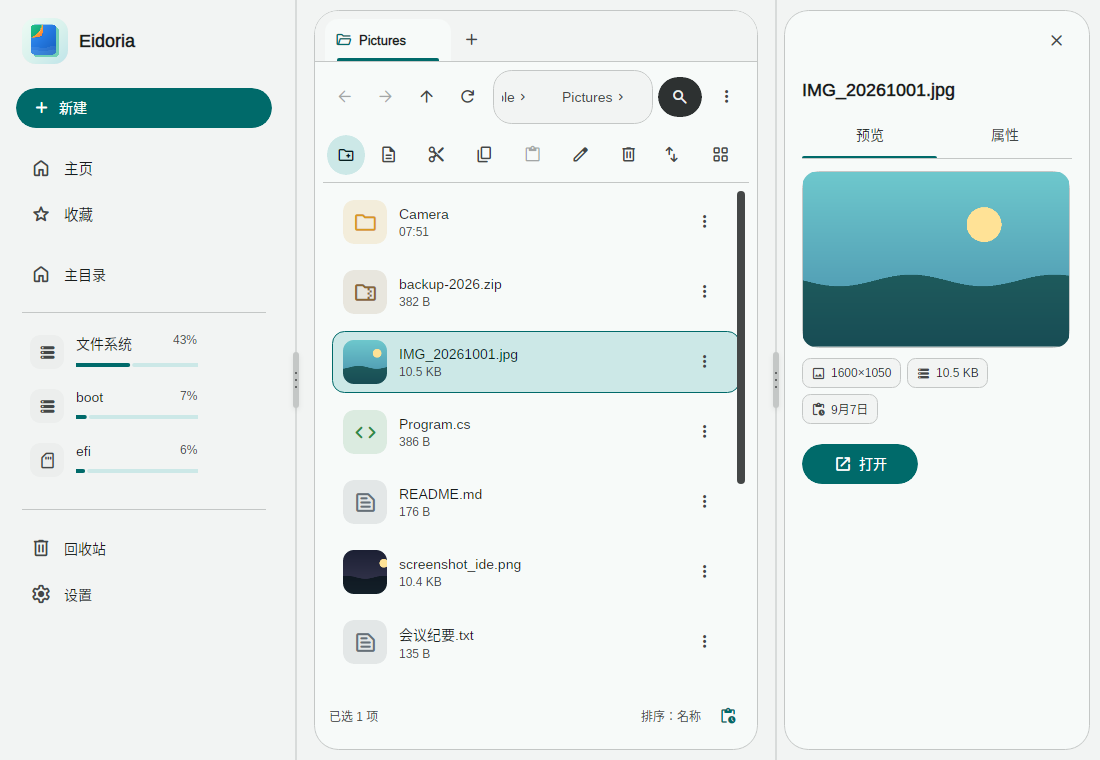
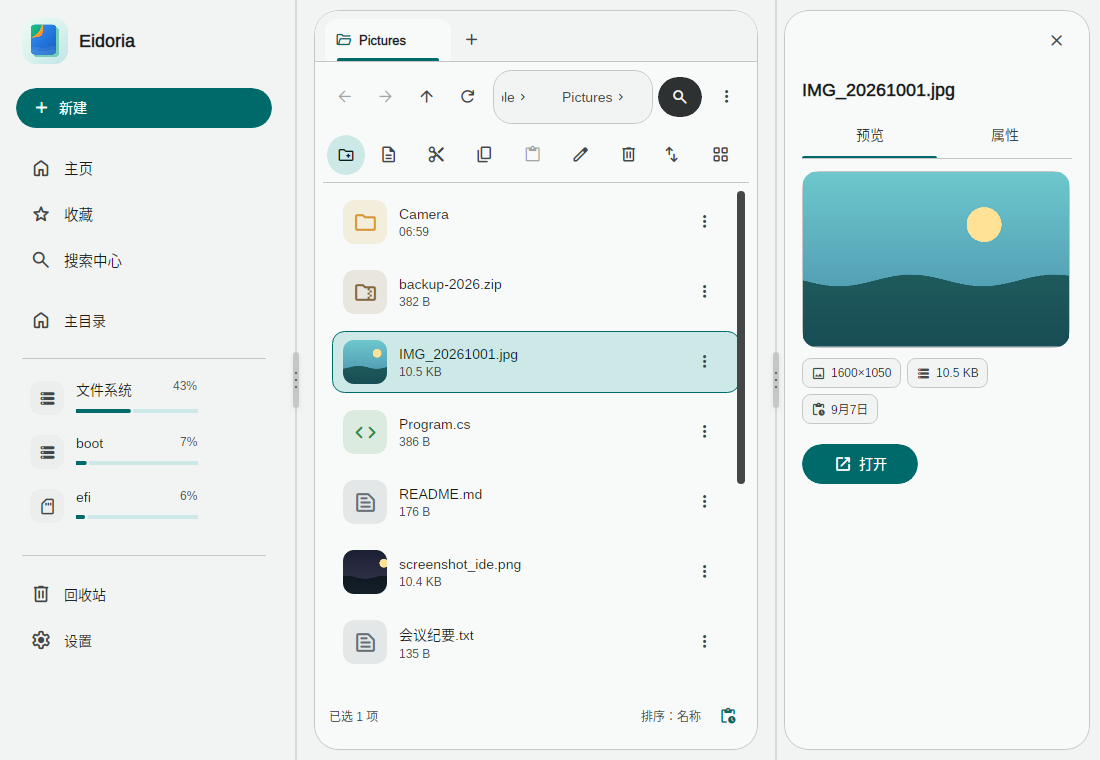
docs: archive v0.13 search center

Changed region(s): [[0.0309, 0.3329, 0.1855, 0.8474]]

diff --git a/src/MdExplorer.Infrastructure/SearchIndex.cs b/src/MdExplorer.Infrastructure/SearchIndex.cs
@@ -105,12 +105,14 @@ public sealed class FileNameIndexService : IFileNameIndexService
         if (!_settingsStore.Settings.UseSearchIndex || TryNormalizeLocalPath(rootPath) is not { } normalized)
             return false;
 
-        var snapshot = await EnsureLoadedAsync(cancellationToken).ConfigureAwait(false);
-        UpdateWatchers(snapshot);
-        if (snapshot is null || _invalidated || !RootsEqual(snapshot.Roots, ConfiguredRoots()))
+        // 先用轻量根配置判覆盖，未命中时不加载整份快照，浏览器在普通目录搜索不付索引读取成本。
+        var roots = ConfiguredRoots();
+        if (!roots.Any(root => IsSameOrUnder(normalized, root)))
             return false;
 
-        return ConfiguredRoots().Any(root => IsSameOrUnder(normalized, root));
+        var snapshot = await EnsureLoadedAsync(cancellationToken).ConfigureAwait(false);
+        UpdateWatchers(snapshot);
+        return snapshot is not null && !_invalidated && RootsEqual(snapshot.Roots, roots);
     }
 
     public async IAsyncEnumerable<FileItem> SearchAsync(

diff --git a/README.md b/README.md
@@ -4,15 +4,17 @@
 
 基于 **Avalonia 12 + .NET 10** 的跨平台（Windows / Linux / Android）**本地**文件资源管理器，采用 **Material Design 3**（`Md3.Avalonia`）设计语言，按窗口尺寸类做真响应式（Adaptive）布局：底部导航栏（Compact）→ 导轨（Medium）→ 永久抽屉 + 预览侧栏（Expanded+）。核心层平台无关，平台能力经接口适配；许可证 Apache-2.0（见 `LICENSE`）。
 
-> **状态：v0.12**——浏览/搜索/预览（图片、文本、**Markdown 渲染、代码高亮、PDF 分页**、ZIP 条目）/复制移动删除（含回收站语义）/ZIP/收藏/设置已可用；v0.2 新增文件夹外部变更自动刷新、文件夹大小、校验和与批量重命名；**v0.3 新增 Android SAF 授权文件夹浏览**；**v0.4 新增详细信息视图**；**v0.5 新增拖放与系统剪贴板互通**；**v0.6 新增浏览器标签页与 PDF 分页预览，并将产品品牌定为 Eidoria（万象屿）**（名称与图标见 `docs/BRAND.md`；仓库、命名空间、Android ApplicationId 与数据目录仍保留内部代号 MdExplorer 以兼容既有数据）；**v0.7 新增串行任务中心、可编辑地址栏、最近访问与标签页恢复**；**v0.8 按概念稿重塑视觉层级：柔和底板承载白色工作区与预览浮动卡，标签页改为与工作区同面相连的浏览器式页签，路径胶囊、类型色图标井、圆角文件卡与精确 `MdList` 选中态统一收敛，Compact 将标签轨与面包屑折叠为当前目录**；**v0.9 换装极简新 Logo（深湖拱门·金日屿浪），三栏加入自研 Material 分隔条（拖动/键盘调整并持久化宽度，原型将回流 Md3.Avalonia），目录切换/页面与侧栏补齐入场与点击动效，插件脚本完成 Lua 优先评估（MoonSharp spike、Python 走进程外）**；**v0.10 新增按文件夹记忆视图与排序（可关、可清除、最多 200 个）和应用内“减少动态效果”，Material 分隔条补齐双击/Home 复位、16px 热区与 `:reduce-motion` 状态，设置页版本改为动态读取**；**v0.11 将整行搜索改成迷你搜索岛 + 悬浮搜索面板（Ctrl+F/K、回车递归、系统返回先收面板），预览拆为“预览 / 属性”双页签且 Compact/Medium 改用 Md3.Extra `MdFloatingWindow` 悬浮预览，全仓显式溢出区统一 `MdScrollViewer`，路径胶囊点空白编辑、点分段跳转，溢出菜单改为桌面三列分组限高，并以概念稿的蓝色折页重绘图标**；**v0.12 对照 `ai-v3` 概念图收敛真实界面：文件行/卡只保留一个紧凑元数据，桌面工具栏、搜索岛、状态区、任务与回收站优先图标+数值，Compact 顶栏新增带计数折叠页签入口，预览改为贴顶舞台与图标事实条，卡片/选中态/Rail 指示器统一到 MD3 tonal 表面与形状阶梯**。标签页各自保存路径、前进/后退栈、过滤词与选集，并可跨启动恢复；PDF 预览采用 MIT 许可的 PDFtoImage/PDFium 按页光栅化（Android 内置预览需 API 31+）。音视频播放为后续里程碑；**插件系统与本地 AI 两条轨道已完成评估、仍排在核心完善之后**。
+> **状态：v0.13**——浏览/搜索/预览（图片、文本、**Markdown 渲染、代码高亮、PDF 分页**、ZIP 条目）/复制移动删除（含回收站语义）/ZIP/收藏/设置已可用；v0.2 新增文件夹外部变更自动刷新、文件夹大小、校验和与批量重命名；**v0.3 新增 Android SAF 授权文件夹浏览**；**v0.4 新增详细信息视图**；**v0.5 新增拖放与系统剪贴板互通**；**v0.6 新增浏览器标签页与 PDF 分页预览，并将产品品牌定为 Eidoria（万象屿）**（名称与图标见 `docs/BRAND.md`；仓库、命名空间、Android ApplicationId 与数据目录仍保留内部代号 MdExplorer 以兼容既有数据）；**v0.7 新增串行任务中心、可编辑地址栏、最近访问与标签页恢复**；**v0.8 按概念稿重塑视觉层级：柔和底板承载白色工作区与预览浮动卡，标签页改为与工作区同面相连的浏览器式页签，路径胶囊、类型色图标井、圆角文件卡与精确 `MdList` 选中态统一收敛，Compact 将标签轨与面包屑折叠为当前目录**；**v0.9 换装极简新 Logo（深湖拱门·金日屿浪），三栏加入自研 Material 分隔条（拖动/键盘调整并持久化宽度，原型将回流 Md3.Avalonia），目录切换/页面与侧栏补齐入场与点击动效，插件脚本完成 Lua 优先评估（MoonSharp spike、Python 走进程外）**；**v0.10 新增按文件夹记忆视图与排序（可关、可清除、最多 200 个）和应用内“减少动态效果”，Material 分隔条补齐双击/Home 复位、16px 热区与 `:reduce-motion` 状态，设置页版本改为动态读取**；**v0.11 将整行搜索改成迷你搜索岛 + 悬浮搜索面板（Ctrl+F/K、回车递归、系统返回先收面板），预览拆为“预览 / 属性”双页签且 Compact/Medium 改用 Md3.Extra `MdFloatingWindow` 悬浮预览，全仓显式溢出区统一 `MdScrollViewer`，路径胶囊点空白编辑、点分段跳转，溢出菜单改为桌面三列分组限高，并以概念稿的蓝色折页重绘图标**；**v0.12 对照 `ai-v3` 概念图收敛真实界面：文件行/卡只保留一个紧凑元数据，桌面工具栏、搜索岛、状态区、任务与回收站优先图标+数值，Compact 顶栏新增带计数折叠页签入口，预览改为贴顶舞台与图标事实条，卡片/选中态/Rail 指示器统一到 MD3 tonal 表面与形状阶梯**；**v0.13 新增本地文件名索引与搜索中心：用户显式加入索引根后可跨根按名称/类型查询，页面同屏管理条目数、体积、更新时间、启停、重建与清除，浏览器递归搜索在快照覆盖时走索引、运行期增删改名使快照失效后回落实时扫描（正文/内容索引仍未实现）**。标签页各自保存路径、前进/后退栈、过滤词与选集，并可跨启动恢复；PDF 预览采用 MIT 许可的 PDFtoImage/PDFium 按页光栅化（Android 内置预览需 API 31+）。音视频播放为后续里程碑；**插件系统与本地 AI 两条轨道已完成评估、仍排在核心完善之后**。
 
-## 效果（CI 无头渲染实拍，归档于 `docs/assets/screenshots/`，含 Markdown/代码/批量重命名/详细信息视图/拖放提示/标签页/PDF/地址栏/任务中心/精修主页/悬浮预览/搜索岛/桌面溢出菜单 共 24 张）
+## 效果（CI 无头渲染实拍，归档于 `docs/assets/screenshots/`，含 Markdown/代码/批量重命名/详细信息视图/拖放提示/标签页/PDF/地址栏/任务中心/精修主页/悬浮预览/搜索岛/桌面溢出菜单/搜索中心 共 26 张）
 
 <img src="docs/assets/screenshots/17-large-tabs.png" alt="Large 1440：连接式双标签页 + 白色工作区 + 网格卡片 + 预览浮动卡" width="720" />
 
 <img src="docs/assets/screenshots/01-compact-390x844.png" alt="Compact 390：底部导航栏 + 列表 + FAB" width="240" /><img src="docs/assets/screenshots/02-compact-home.png" alt="Compact 主页：存储卡与分类" width="240" /><img src="docs/assets/screenshots/03-medium-768x1024.png" alt="Medium 768：导轨 + 网格" width="300" />
 
 <img src="docs/assets/screenshots/22-compact-floating-preview.png" alt="Compact 悬浮预览：可拖窗内含预览与属性双页签" width="240" /><img src="docs/assets/screenshots/23-large-search-island.png" alt="Large 悬浮搜索面板：迷你搜索岛展开后的搜索控制面" width="520" />
+
+<img src="docs/assets/screenshots/26-compact-search-center.png" alt="Compact 搜索中心：跨索引根查询与索引管理上下分工" width="240" /><img src="docs/assets/screenshots/25-large-search-center.png" alt="Large 搜索中心：跨索引根结果与索引健康同屏" width="520" />
 
 ## 下一阶段概念（非实拍）
 
